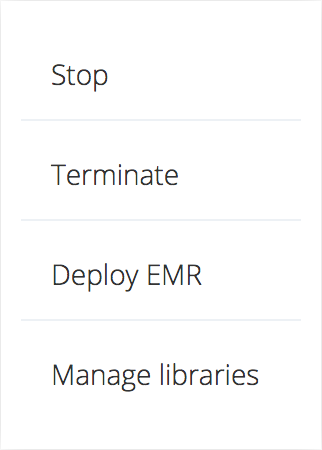
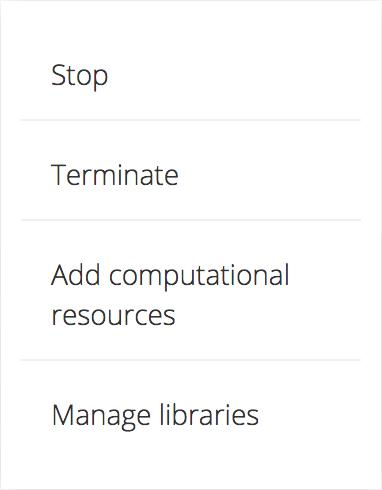
[EPMCDLAB-899]: refactored guide

diff --git a/USER_GUIDE.md b/USER_GUIDE.md
@@ -22,9 +22,9 @@ DLab is an essential toolset for analytics. It is a self-service Web Console, us
 
 &nbsp; &nbsp; &nbsp; &nbsp; [Terminate Notebook server](#notebook_terminate)
 
-&nbsp; &nbsp; &nbsp; &nbsp; [Deploy EMR](#emr_deploy)
+&nbsp; &nbsp; &nbsp; &nbsp; [Deploy Computational resource](#computational_deploy)
 
-&nbsp; &nbsp; &nbsp; &nbsp; [Terminate EMR](#emr_terminate)
+&nbsp; &nbsp; &nbsp; &nbsp; [Terminate Computational resource](#computational_terminate)
 
 &nbsp; &nbsp; &nbsp; &nbsp; [Collaboration space](#collaboration_space)
 
@@ -138,8 +138,8 @@ In the body of the dialog:
 -   Up time
 -   Analytical tool URL
 -   Git UI tool (ungit)
--   S3 shared bucket for all users
--   S3 bucket that has been provisioned for your needs
+-   Shared bucket for all users
+-   Bucket that has been provisioned for your needs
 
 To access analytical tool Web UI – you need to configure SOCKS proxy. Please follow the steps described on “Read instruction how to create the tunnel” page to configure SOCKS proxy for Windows/MAC/Linux machines.
 
@@ -186,7 +186,7 @@ After clicking on "Install" button you will see process of installation with app
 --------------------------
 ## Stop Notebook server <a name="notebook_stop"></a>
 
-Once you have stopped working with an analytical tool and you would like to release AWS resources for the sake of the costs, you might want to Stop the notebook. You will be able to Start the notebook again after a while and proceed with your analytics.
+Once you have stopped working with an analytical tool and you would like to release cloud resources for the sake of the costs, you might want to Stop the notebook. You will be able to Start the notebook again after a while and proceed with your analytics.
 
 To Stop the Notebook click on a gear icon ![gear](doc/gear_icon.png) in the Actions column for a needed Notebook and hit Stop:
 
@@ -196,74 +196,80 @@ To Stop the Notebook click on a gear icon ![gear](doc/gear_icon.png) in the Acti
 
 Hit OK in confirmation popup.
 
-**NOTE:** if any EMR clusters have been connected to your notebook server – they will be automatically terminated if you stop the notebook.
+**NOTE:** if any Computational resources have been connected to your notebook server – they will be automatically terminated if you stop the notebook.
 
 <p align="center"> 
     <img src="doc/notebook_stop_confirm.png" alt="Notebook stop confirm" width="400">
 </p>
 
-After you confirm you intent to Stop the notebook - the status will be changed to Stopping and will become Stopped in a while. EMR cluster status will be changed to Terminated.
+After you confirm you intent to Stop the notebook - the status will be changed to Stopping and will become Stopped in a while. Computational resource status will be changed to Terminated.
 
 --------------------------------
 ## Terminate Notebook server <a name="notebook_terminate"></a>
 
-Once you have finished working with an analytical tool and you would like to release AWS resources for the sake of the costs, you might want to Terminate the notebook. You will not be able to Start the notebook which has been Terminated. Instead, you will have to create new Notebook server if you will need to proceed your analytical activities.
+Once you have finished working with an analytical tool and you would like to release cloud resources for the sake of the costs, you might want to Terminate the notebook. You will not be able to Start the notebook which has been Terminated. Instead, you will have to create new Notebook server if you will need to proceed your analytical activities.
 
 To Terminate the Notebook click on a gear icon ![gear](doc/gear_icon.png) in the Actions column for a needed Notebook and hit Terminate:
 
-**NOTE:** if any EMR clusters have been linked to your notebook server – they will be automatically terminated if you stop the notebook.
+**NOTE:** if any Computational resources have been linked to your notebook server – they will be automatically terminated if you stop the notebook.
 
 Confirm termination of the notebook and afterward notebook status will be changed to **Terminating**:
 
 ![Notebook terminating](doc/notebook_terminating.png)
 
-Once corresponding instances are terminated on AWS, status will finally
+Once corresponding instances are terminated on cloud, status will finally
 change to Terminated:
 
 ![Notebook terminated](doc/notebook_terminated.png)
 
 ---------------
-## Deploy EMR <a name="emr_deploy"></a>
+## Deploy Computational resource <a name="computational_deploy"></a>
 
-After deploying Notebook node, you can deploy EMR cluster and it will be automatically linked with your Notebook server. EMR cluster is a managed cluster platform, that simplifies running big data frameworks, such as Apache Hadoop and Apache Spark on AWS to process and analyze vast amounts of data. Adding EMR is not mandatory and is needed in case computational resources are required for job execution.
+After deploying Notebook node, you can deploy Computational resource and it will be automatically linked with your Notebook server. Computational resource is a managed cluster platform, that simplifies running big data frameworks, such as Apache Hadoop and Apache Spark on cloud to process and analyze vast amounts of data. Adding Computational resource is not mandatory and is needed in case computational resources are required for job execution.
 
-On “Create Computational Resource” popup you will have to choose EMR version (configurable) and specify alias for EMR cluster. To setup a cluster that meets your needs – you will have to define:
+On “Create Computational Resource” popup you will have to choose Computational resource version (configurable) and specify alias for it. To setup a cluster that meets your needs – you will have to define:
 
 -   Total number of instances (min 2 and max 14, configurable);
--   Master and Slave instance shapes (list is configurable and supports all available AWS instance shapes, supported in your AWS region);
+-   Master and Slave instance shapes (list is configurable and supports all available cloud instance shapes, supported in your cloud region);
 
-Also, if you would like to save some costs for your EMR cluster you can create EMR cluster based on [spot instances](https://aws.amazon.com/ec2/spot/), which are often available at a discount price:
+Also, if you would like to save some costs for your Computational resource you can create it based on [spot instances](https://aws.amazon.com/ec2/spot/), which are often available at a discount price (this functionality is only available for AWS cloud):
 
 -   Select Spot Instance checkbox;
 -   Specify preferable bid for your spot instance in % (between 20 and 90, configurable).
 
-**NOTE:** When the current Spot price rises above your bid price, the Spot instance is reclaimed by AWS so that it can be given to another customer. Please make sure to backup your data on periodic basis.
+**NOTE:** When the current Spot price rises above your bid price, the Spot instance is reclaimed by cloud so that it can be given to another customer. Please make sure to backup your data on periodic basis.
 
+This picture shows menu for creating Computational resource for AWS:
 <p align="center"> 
-    <img src="doc/emr_create.png" alt="Create EMR" width="450">
+    <img src="doc/emr_create.png" alt="Create Computational resource on AWS" width="450">
 </p>
 
-If you click on Create button EMR cluster creation will kick off. You will see corresponding record on DLab Web UI in status **Creating**:
-
-![Creating EMR](doc/emr_creating.png)
-
-Once EMR clusters are provisioned, their status will be changed to **Running**.
-
-Clicking on EMR name in DLab dashboard will open EMR details popup:
-
+This picture shows menu for creating Computational resource for Azure:
 <p align="center"> 
-    <img src="doc/emr_info.png" alt="EMR info" width="400">
+    <img src="doc/dataengine_creating_menu.png" alt="Create Computational resource on Azure" width="450">
 </p>
 
-Since EMR cluster is up and running - you are now able to leverage cluster computational power to run your analytical jobs on.
+If you click on Create button Computational resource creation will kick off. You will see corresponding record on DLab Web UI in status **Creating**:
+
+![Creating Computational resource](doc/emr_creating.png)
+
+Once Computational resources are provisioned, their status will be changed to **Running**.
+
+Clicking on Computational resource name in DLab dashboard will open Computational resource details popup:
+
+<p align="center"> 
+    <img src="doc/emr_info.png" alt="Computational resource info" width="400">
+</p>
+
+Since Computational resource is up and running - you are now able to leverage cluster computational power to run your analytical jobs on.
 
 To do that open any of the analytical tools and select proper kernel/interpreter:
 
-**Jupyter** – goto Kernel and choose preferable interpreter between local and EMR ones. Currently we have added support of Python 2/3, Spark, Scala, R into Jupyter.
+**Jupyter** – goto Kernel and choose preferable interpreter between local and Computational resource ones. Currently we have added support of Python 2/3, Spark, Scala, R into Jupyter.
 
 ![Jupiter](doc/jupiter.png)
 
-**Zeppelin** – goto Interpreter Biding menu and switch between local and EMR there. Once needed interpreter is selected click on Save.
+**Zeppelin** – goto Interpreter Biding menu and switch between local and Computational resource there. Once needed interpreter is selected click on Save.
 
 ![Zeppelin](doc/zeppelin.png)
 
@@ -274,20 +280,20 @@ Insert following “magics” before blocks of your code to start executing your
 -   interpreter\_name.%pyspark3 – for Python3;
 -   interpreter\_name.%sparkr – for R;
 
-**R-studio –** open R.environ and comment out /opt/spark/ to switch to EMR and vise versa to switch to local kernel:
+**R-studio –** open R.environ and comment out /opt/spark/ to switch to Computational resource and vise versa to switch to local kernel:
 
 ![RStudio](doc/rstudio.png)
 
 ------------------
-## Terminate EMR <a name="emr_terminate"></a>
+## Terminate Computational resource <a name="computational_terminate"></a>
 
-To release cluster computational resources click on ![cross](doc/cross_icon.png) button close to EMR cluser alias. Confirm decommissioning of EMR by hitting Yes:
+To release cluster computational resources click on ![cross](doc/cross_icon.png) button close to Computational resource alias. Confirm decommissioning of Computational resource by hitting Yes:
 
 <p align="center"> 
-    <img src="doc/emr_terminate_confirm.png" alt="EMR terminate confirm" width="400">
+    <img src="doc/emr_terminate_confirm.png" alt="Computational resource terminate confirm" width="400">
 </p>
 
-In a while EMR cluster will get **Terminated**. Corresponding EC2 instances will also removed on AWS.
+In a while Computational resource cluster will get **Terminated**. Corresponding cloud instances will also removed on cloud.
 
 --------------------------------
 ## Collaboration space <a name="collaboration_space"></a>
@@ -360,7 +366,7 @@ Also clicking on "circle" button you can uncommit or revert changes.
 --------------------------------
 # DLab Health Status Page <a name="health_page"></a>
 
-Health Status page is an administration page allowing users to start/stop/recreate gateway node. This might be useful in cases when someone manually deleted corresponding Edge node instance from AWS. This would have made DLab as an application corrupted in general. If any actions are manually done to Edge node EC2 instance directly via AWS Web Console – those changes will be synchronized with DLab automatically and shortly Edge Node status will be updated in DLab.
+Health Status page is an administration page allowing users to start/stop/recreate gateway node. This might be useful in cases when someone manually deleted corresponding Edge node instance from cloud. This would have made DLab as an application corrupted in general. If any actions are manually done to Edge node instance directly via Cloud Web Console – those changes will be synchronized with DLab automatically and shortly Edge Node status will be updated in DLab.
 
 To access Health status page either navigate to it via main menu:
 
@@ -416,7 +422,7 @@ In the footer of billing report, you can see Total cost for all environments.
 --------------------
 # Web UI filters <a name="filters"></a>
 
-You can leverage functionality of build-in UI filter to quickly manage the analytical tools and EMR clusters, which you only want to see in your dashboard.
+You can leverage functionality of build-in UI filter to quickly manage the analytical tools and computational resources, which you only want to see in your dashboard.
 
 To do this, simply click on icon ![filter](doc/filter_icon.png) in dashboard header and filter your list by any of:
 
